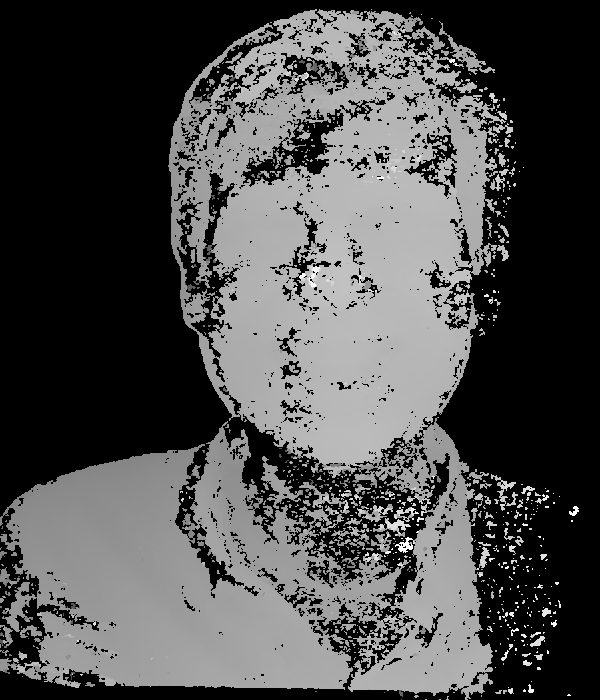
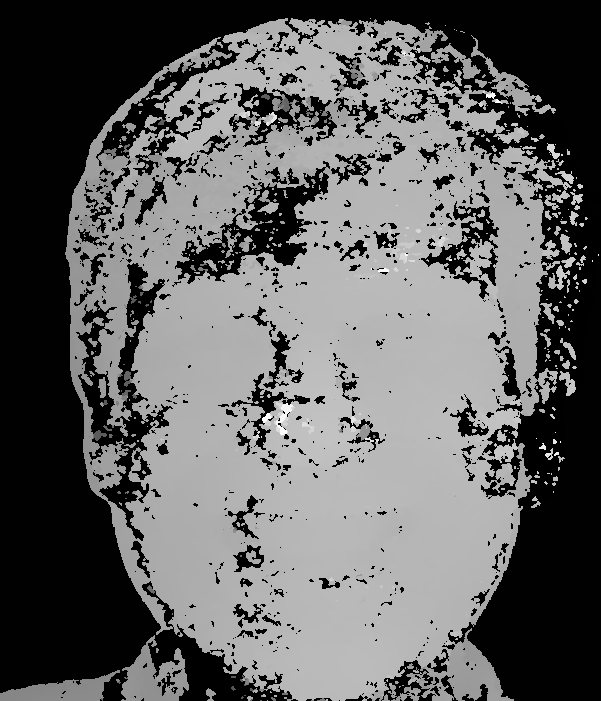
Report images
In the main file, images for the report are now written to file

diff --git a/main.m b/main.m
@@ -130,20 +130,46 @@ figure;
 %% Fill Gaps with relaxation
 gv = -1;
 
-disparmap = disparmap_R;
+disparmap = disparmap_R.*mask_Mr_rec;
 disparmap(isnan(disparmap)) = 0;
 disparmap(mask_Mr_rec==1 & disparmap==0) = gv;
-disparmap_f = relaxgaps(disparmap.*mask_Mr_rec,gv,1,300,0.001,0);
+disparmap_f = relaxgaps(disparmap,gv,1,300,0.001,0);
 
 figure; imshow(disparmap.*mask_Mr_rec,[])
 figure; imshow(disparmap_f,[])
 
 %% Laplacian filter
 threshold = 1;
-disparmap_fl = laplacianFilter(disparmap_f,threshold,gv);
+[disparmap_fl,lapfilt] = laplacianFilter(disparmap_f,threshold,gv);
 figure; imshow(disparmap_fl,[]); title('Laplacian filtered')
-disparmap_flf = relaxgaps(disparmap_fl,gv,1,300,0.001,0);
+[disparmap_flf,its] = relaxgaps(disparmap_fl,gv,1,400,0.001,0);
+
 figure; imshow(disparmap_flf,[]); title('Relaxed Laplacian filtered')
 
 %% Plot Face Mesh
 facemesh(disparmap_flf,im_Mr_rec)
+
+
+%% Write Report Images
+writeReportImages = true;
+
+if writeReportImages
+    % Crop parameters
+    x = 800;
+    y = 100;
+    w = 600;
+    h = 700;
+    
+    % Crop images and adjust range for export
+    disparitygaps_c = mat2gray(imcrop(disparmap,    [x y w h]));
+    disparityfill_c = mat2gray(imcrop(disparmap_f,  [x y w h]));
+    disparitylapf_c = mat2gray(imcrop(lapfilt,      [x y w h]));
+    disparityflf_c  = mat2gray(imcrop(disparmap_flf,[x y w h]));
+    
+    % Write images
+    imwrite(disparitygaps_c,'./out/disparity-gaps.png')
+    imwrite(disparityfill_c,'./out/disparity-fill.png')
+    imwrite(disparitylapf_c,'./out/disparity-lapf.png')
+    imwrite(disparityflf_c, './out/disparity-flf.png')
+end
+

diff --git a/report/LaTeX_report_template.tex b/report/LaTeX_report_template.tex
@@ -346,11 +346,25 @@ The interpolation algorithm fills in gaps of an input image using iterative rela
     ~
     \begin{subfigure}[t]{0.45\linewidth}
         \centering
-        \includegraphics[width=\linewidth]{Pics/disparity-filled.png}
+        \includegraphics[width=\linewidth]{Pics/disparity-fill.png}
         \caption{Disparity gaps are filled using iterative relaxation.}
-        \label{fig:disparity-filled}
+        \label{fig:disparity-fill}
     \end{subfigure}
-    \caption{Disparity gaps interpolation.}
+    ~
+    \begin{subfigure}[t]{0.45\linewidth}
+        \centering
+        \includegraphics[width=\linewidth]{Pics/disparity-lapf.png}
+        \caption{Disparity map contains errors which generally show up as `spiky' patches. Laplacian filter detects these patches.}
+        \label{fig:disparity-lapf}
+    \end{subfigure}
+    ~
+    \begin{subfigure}[t]{0.45\linewidth}
+        \centering
+        \includegraphics[width=\linewidth]{Pics/disparity-flf.png}
+        \caption{By means of a threshold, the spiky areas are removed and filled with the relaxation function.}
+        \label{fig:disparity-flf}
+    \end{subfigure}
+    \caption{Disparity gaps interpolation and filtering.}
     \label{fig:disparity-fillgap}
 \end{figure}
 
@@ -587,6 +601,10 @@ numbersep=3pt, % this defines how far the numbers are from the text
 \subsection{relaxgaps}
 \label{sec:relaxgaps}
 \lstinputlisting[language=Matlab]{../relaxgaps.m}
+
+\subsection{laplacianFilter}
+\label{sec:laplacianFilter}
+\lstinputlisting[language=Matlab]{../laplacianFilter.m}
 
 \subsection{facemesh}
 \label{sec:facemesh}

diff --git a/laplacianFilter.m b/laplacianFilter.m
@@ -1,4 +1,4 @@
-function dfilt = laplacianFilter(dmap,threshold,gv)
+function [dfilt,glapl] = laplacianFilter(dmap,threshold,gv)
 % === Laplacian Filter for disparity maps ===
 % Computes a gaussian blurred absolute laplacian.
 % Replaces values that are above given threshold.
@@ -13,6 +13,7 @@ function dfilt = laplacianFilter(dmap,threshold,gv)
 %
 % Output:
 %  - dfilt:     Filtered disparity map.
+%  - glapl:     Laplacian filtering image.
 
 % Settings
 s = 7;
